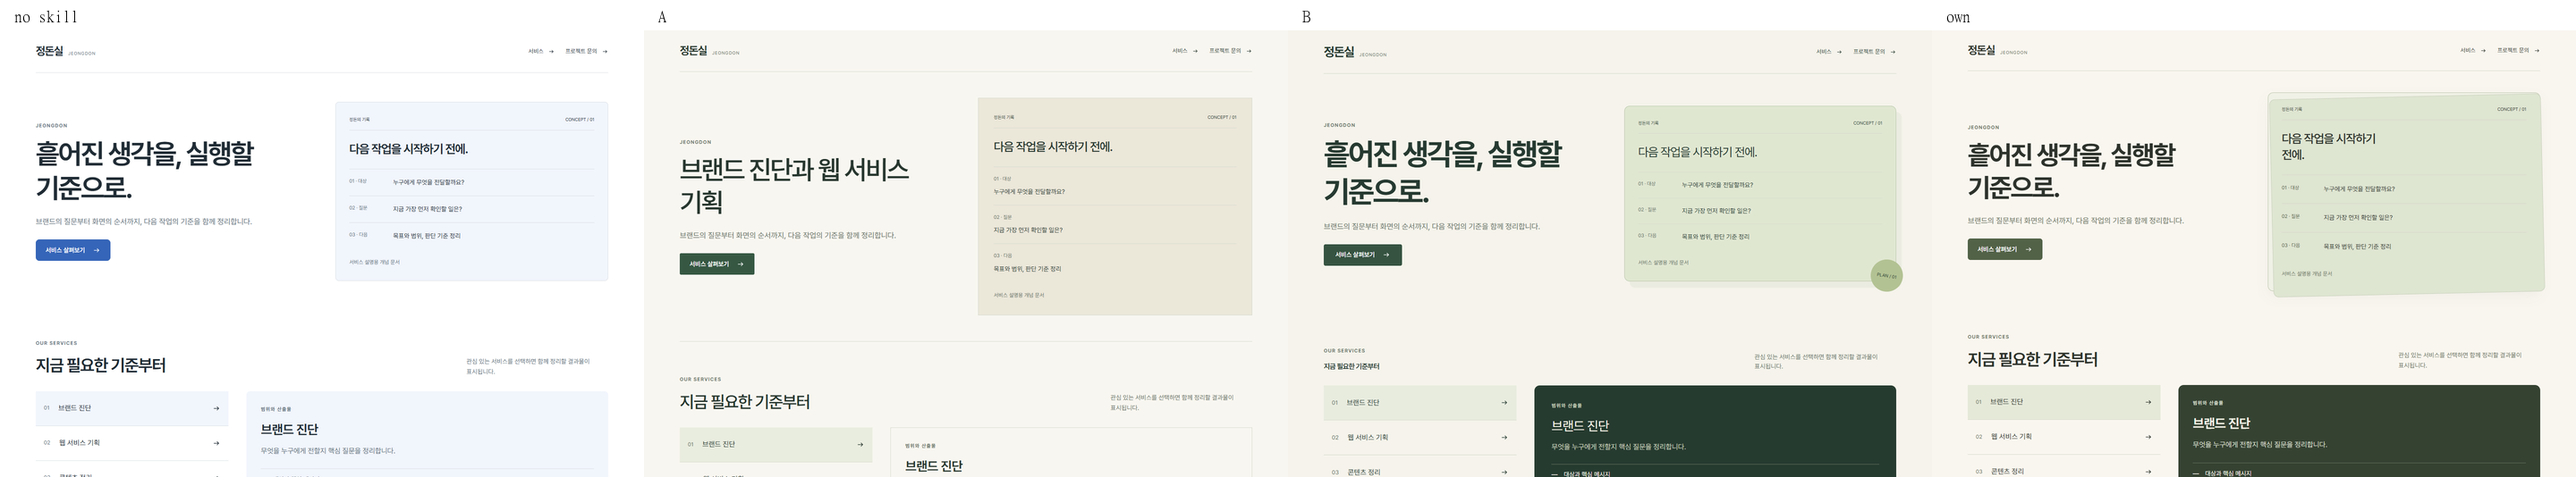
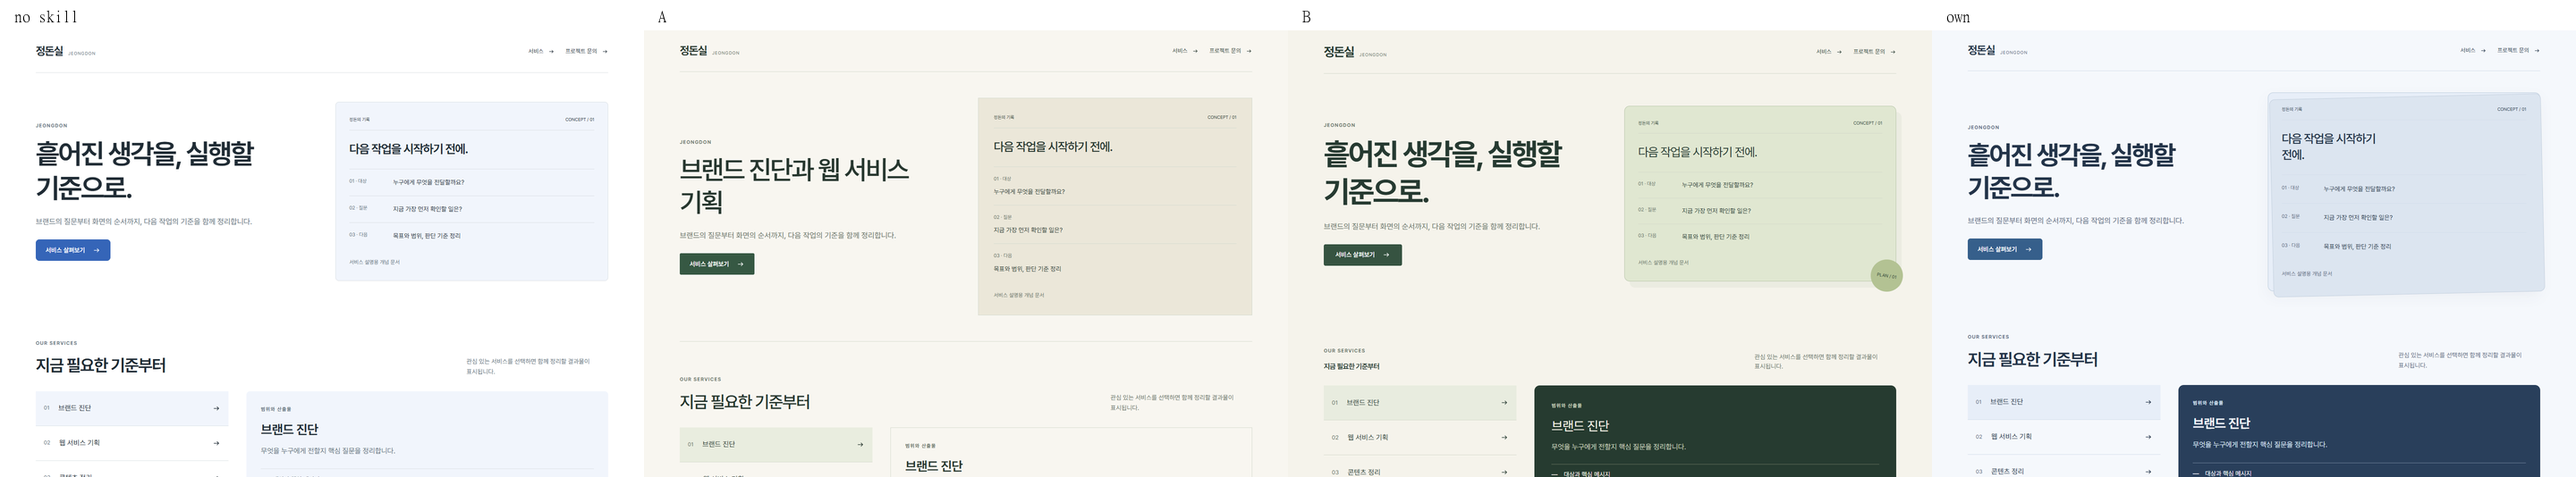
Choose contextual palettes instead of a shared beige canvas

diff --git a/src/own.css b/src/own.css
@@ -18,3 +18,20 @@ body{--paper:#f9f6ef;--ink:#2d332c;--muted:#687060;--line:#d7d9cb;--accent:#7556
 .hero-restaurant .btn:focus-visible{outline-color:#fff7e9}
 @media(max-width:1050px){.hero-restaurant{padding:52px 32px;min-height:570px}.hero-restaurant .hero-copy{max-width:480px}.hero-restaurant h1{font-size:48px}}
 @media(max-width:700px){.hero-restaurant{display:flex;flex-direction:column;align-items:stretch;min-height:0;padding:0}.hero-restaurant .hero-media{position:relative;inset:auto;z-index:auto;order:-1;width:100%;height:300px;flex:none}.hero-restaurant .hero-photo{object-position:50% 76%}.hero-restaurant:after{display:none}.hero-restaurant .hero-copy{max-width:none;padding:30px 20px 36px}.hero-restaurant h1{font-size:40px;max-width:14ch}.hero-restaurant .hero-copy>.btn{margin-top:24px}}
+
+/* 프로젝트별 역할색: 공통 크림 바탕 대신 자료·과업에 맞춘 면을 선택한다. */
+body{--paper:#fff;--ink:#25282c;--muted:#62676f;--line:#dce0e5;--accent:#40556e;--soft:#f1f3f5}
+body[data-category=saas]{--paper:#f5f8fc;--ink:#233449;--muted:#536579;--line:#d7e0eb;--accent:#37668e;--soft:#edf2f7}
+body[data-category=brand]{--paper:#fcfbfe;--ink:#302b3b;--muted:#6d6178;--line:#e1dbe8;--accent:#72517f;--soft:#f0eaf5}
+body[data-category=local]{--paper:#f7fafb;--ink:#263c43;--muted:#596c73;--line:#d3dfe3;--accent:#395f6b;--soft:#e7eff2}
+body[data-category=restaurant]{--paper:#f9f6ef;--ink:#2d332c;--muted:#687060;--line:#d7d9cb;--accent:#9a573f;--soft:#eeeadf}
+body[data-category=professional]{--paper:#f5f8fc;--ink:#233449;--muted:#56677b;--line:#d4deeb;--accent:#365f8b;--soft:#e7eef8}
+body[data-category=event]{--paper:#f4f7fa;--ink:#233b4b;--muted:#556979;--line:#d1dde5;--accent:#31566a;--soft:#e5edf2}
+.hero-local,.hero-professional{--accent:inherit}
+.intro-note,.intro-note>span,.course .choose[aria-pressed=true]{background:var(--soft);color:var(--ink);border-color:var(--line)}
+.hero-professional .document{background:var(--soft);border-color:#bdcddd;box-shadow:0 12px 30px #2334490c}
+.hero-professional .document:before{background:#dce5f0;border-color:#c3cfdd}
+.document dt{color:var(--muted)}
+.service-panel{background:#293f5b;color:#f4f7fc}.service-panel>p{color:#d8e3f1}.service-panel li{border-color:#70839b}.service-panel .text-button{color:#f4f7fc}.service-option[aria-pressed=true]{background:var(--soft)}
+body[data-category=portfolio] .hero-work,body[data-category=portfolio] .work-card .image-button{background:var(--soft)}
+.product-grid .product-card .save-button[aria-pressed=true]{color:var(--accent)}

diff --git a/skills/korean-ui-design/references/color-and-interaction.md b/skills/korean-ui-design/references/color-and-interaction.md
@@ -21,6 +21,14 @@
 
 ## 섹션 사이의 배색 연결
 
+### 바탕까지 선택하고 구현에서 확인하기
+
+공통 CSS의 바탕을 베이지/크림색으로 고정한 채 accent만 바꾸면 다른 브랜드도 같은 계열로 보인다. 초기 바탕은 중립색으로 두고 프로젝트별로 `paper / ink / muted / soft / line / accent`를 함께 확정한다. 확정된 브랜드 규칙이 있으면 이를 우선하고, 사진의 색이 충분하면 흰색·회색처럼 색을 덜 쓰는 선택도 인정한다. 브랜드 근거가 약하면 중립 밝은 면과 제한된 행동색부터 검토한다.
+
+선택 이유에는 무엇을 먼저 읽게 하는지, 사진·실제 자료와 어떤 관계인지, 바탕의 온도/명도와 강조 면적을 적는다. 여러 페이지를 만든다면 전체 축소본에서 지배적인 바탕까지 같은지 비교한다. 다양성을 위해 무작위 색을 뽑거나 카테고리에 색 하나를 영구 배정하지 않는다. 바탕을 바꿨으면 녹색/갈색으로 하드코딩한 안내·선택·문서·모달이 남아 있는지도 확인한다. 업무 앱은 간결한 목록과 상태 위계를 유지하며 팔레트 변경을 소개·요약 카드 추가의 근거로 삼지 않는다.
+
+검토에서는 문서에 쓴 토큰과 body·주요 구간의 computed 색을 대조하고 본문/보조문구/버튼 대비를 실제 조합으로 확인한다. 장식선의 낮은 채도와 입력·초점 경계의 식별은 따로 판단한다.
+
 DESIGN.md에 구간별 바탕·본문·행동색을 나란히 적고 전 페이지를 한 화면의 축소본으로 본다. 소개→내용→신청에서 같은 브랜드의 면으로 이어지는지 확인한다. 입력 영역을 강조하려는 이유만으로 앞에서 쓰지 않은 고채도 색을 넓은 면에 추가하지 않는다. 새로운 색이 필요하면 브랜드·콘텐츠 근거와 다른 구간에서의 사용 위치를 설명한다. 색 개수를 임의로 고정하는 대신 색의 역할과 재등장을 관리한다.
 
 강한 포스터의 다음 구간은 중립적인 읽기 면으로 쉬게 하고, 신청 영역은 기존 잉크색·종이색·강조색의 조합으로 전환할 수 있다. 한 구간의 보기 좋은 조합도 앞뒤와 무관하면 다시 선택한다. 실제 폼의 경계·오류·초점 대비는 넓은 바탕 면과 별도로 검수한다.

diff --git a/docs/PALETTES.md b/docs/PALETTES.md
@@ -1,0 +1,15 @@
+# 이번 자체 시안의 팔레트 선택
+
+아래 색은 이번 가상 콘텐츠에 대한 편집 선택이며 카테고리별 고정 규칙이 아니다. 기존 브랜드색이 제공되면 해당 조건을 우선한다. A/B/no skill의 배색은 변경하지 않았다.
+
+| 시안 | 바탕 / 행동색 | 이번 선택의 이유 |
+|---|---|---|
+| SaaS | `#f5f8fc` / `#37668e` | 차분한 업무 바탕과 흰 목록 면을 구분한다. 기존 검색·업무 목록·상태 구성은 유지한다. |
+| 브랜드 | `#fcfbfe` / `#72517f` | 노트·달력의 여러 색이 주인공이 되도록 바탕은 거의 흰색으로 두고 탐색·관심 표시에 절제된 자주색을 사용한다. |
+| 로컬 | `#f7fafb` / `#395f6b` | 따뜻한 흙 작업 사진과 차가운 읽기 면을 구분한다. 수업 안내·선택·신청에도 같은 청회색 역할을 연결한다. |
+| 식당 | `#f9f6ef` / `#9a573f` | 승인된 음식 사진·갈색 상단·크림색 메뉴와 예약의 관계를 유지한다. |
+| 포트폴리오 | `#ffffff` / `#40556e` | 작품 색을 보존하는 흰 갤러리 면과 중립 프레임을 사용한다. 추가 색조 필터는 쓰지 않는다. |
+| 전문 서비스 | `#f5f8fc` / `#365f8b` | 문서·서비스 범위의 정보 위계를 청회색 면과 진한 잉크 블루로 연결한다. 기존 녹색 문서/선택 면도 함께 바꾼다. |
+| 행사 | `#f4f7fa` / `#31566a` | 승인된 남색·호박색 포스터는 유지하고 이어지는 일정·신청 면을 차가운 중립색으로 연결한다. |
+
+바탕·본문·보조·선·행동·선택 면의 토큰은 `src/own.css`에서 함께 지정한다. 문서·카드·선택 상태의 하드코딩된 다른 계열이 남아 있는지 확인한다. 색 차이가 디자인 품질이나 스킬의 인과 효과를 입증하지는 않는다.

diff --git a/skills/korean-ui-design/SKILL.md b/skills/korean-ui-design/SKILL.md
@@ -36,7 +36,7 @@ description: 한국어 브랜드·매장·포트폴리오·행사·업무 UI를 
 
 ## 공통 설계 기준
 
-- **색:** 브랜드·사진·콘텐츠로 정하고 바탕/본문/보조/행동/선택/오류의 역할을 일관되게 연결한다. 업종만으로 녹색·미색·다크 모드를 고정하지 않는다.
+- **색:** 브랜드·사진·콘텐츠로 정하고 바탕/본문/보조/행동/선택/오류의 역할을 일관되게 연결한다. 바탕의 온도·명도·보조 면과 강조 면적까지 결정하고 실제 CSS 토큰에 반영한다. 공통 템플릿에 크림색을 숨은 기본값으로 두거나 버튼색만 바꿔 다양성을 대신하지 않는다. 업종만으로 녹색·미색·다크 모드를 고정하지 않는다.
 - **자료:** 사진 상자뿐 아니라 피사체 크기·빛·크롭·캡션·다음 행동을 맞춘다. 작업·상품 상세는 선택한 자료와 같은 대상을 보여준다. 참고 이미지와 실제 제품/장소/고객 자료를 구분한다.
 - **정보 밀도:** 목록에는 비교에 필요한 이름·상태·가격·분야를 남기고 긴 판단 근거는 접근 가능한 상세로 옮긴다. 동등 비교 카드의 폭·이미지·캡션·행동 축을 맞추며 의도한 비대칭은 강조 목적과 읽는 순서를 설명한다.
 - **한국어:** lang=ko·UTF-8·viewport를 설정한다. 기본 서체는 한글·영문·숫자 모두 Pretendard로 한다. 실제 파일을 제공하고 입력·선택·버튼도 상속한다. 별도 서체는 사용자 요청이나 확정된 브랜드 규칙이 있을 때 선택하고 이유를 기록한다. 실제 로드된 글꼴로 줄바꿈·굵기·행간을 확인한다.

diff --git a/skills/korean-ui-design/assets/DESIGN.md b/skills/korean-ui-design/assets/DESIGN.md
@@ -23,6 +23,8 @@
 
 ## 색·조판·자료
 
+바탕의 온도·명도와 보조 면·강조 면적을 함께 선택하고 브랜드/사진/주요 과업의 근거를 적는다. 공통 크림 바탕에 버튼색만 바꾸지 않는다. 브랜드 근거가 없으면 중립 바탕을 먼저 검토하고, 확정한 역할색을 실제 CSS 토큰·구간·모달에 대조한다. 여러 사이트의 색 차이를 위해 업종별 고정색이나 임의 팔레트를 강제하지 않는다.
+
 기본 서체는 한글·영문·숫자 모두 Pretendard이며 제목·본문·버튼·input·select·textarea에 일관되게 적용한다. 실제 폰트 파일과 라이선스를 제공하고 로딩 후 적용을 확인한다. 별도 서체는 사용자 요청이나 확정된 브랜드 규칙이 있을 때만 적용 범위와 이유를 기록한다.
 
 소개형 페이지의 첫 섹션 대표 제목은 Pretendard 700에서 시작해 본문·보조 제목과 굵기 차이를 만든다. 실제 선택한 굵기와 예외 이유를 기록하고 모바일 줄바꿈·200% 글자 확대에서 잘림과 겹침이 없는지 확인한다. 업무 앱 제목은 화면 밀도에 맞춰 별도로 판단한다.

diff --git a/skills/korean-ui-design/references/categories/saas.md b/skills/korean-ui-design/references/categories/saas.md
@@ -8,6 +8,8 @@
 
 ## 콘텐츠와 색
 
+간결한 업무 목록이 승인된 화면은 검색·상태·담당자·기한의 비교 구성을 유지한다. 바탕은 브랜드·운영 맥락에 따라 중립 흰색이나 차분한 청회색 등을 검토하되, 공통 소개 템플릿의 크림 바탕을 그대로 상속하지 않는다. 배색을 바꾸기 위해 진행 요약·다가오는 업무·감성 문구를 추가하지 않는다. 행동색과 상태색의 역할을 분리하고 실제 업무 면의 대비를 확인한다.
+
 업무명·상태·담당자·기한 등 실제 판단에 필요한 열을 정한다. 보조 정보는 목록의 읽는 순서를 끊지 않게 배치한다. 브랜드 행동색과 대기/진행/완료/오류의 의미를 분리하고 보조 회색·상태 표식의 대비를 확인한다. 특정 보라색이나 밀도를 모든 앱에 적용하지 않는다.
 
 ## 조작과 모션

diff --git a/README.md b/README.md
@@ -4,6 +4,8 @@
 
 기본 글꼴은 한글·영문·숫자 모두 **Pretendard**입니다. 동봉된 웹폰트를 자체 호스팅하며 제목·본문·폼 요소에 적용합니다. 별도 서체는 사용자 요청이나 확정된 브랜드 규칙이 있을 때 선택합니다.
 
+배색은 공통 베이지 템플릿 대신 브랜드·사진·과업에 따라 바탕과 역할색을 함께 결정합니다. [이번 자체 시안의 팔레트 선택](docs/PALETTES.md)을 확인할 수 있습니다.
+
 아래 비교 페이지에서는 같은 한국어 과제와 새 콘텐츠로 작성한 **no skill / A / B / 자체 스킬**을 살펴볼 수 있습니다. 7개 카테고리, 총28개 시안과 공통 기능 검사 결과를 제공합니다. 모든 브랜드·상품·작품·일정은 비교를 위한 가상 자료입니다.
 
 ## 디자인 비교
